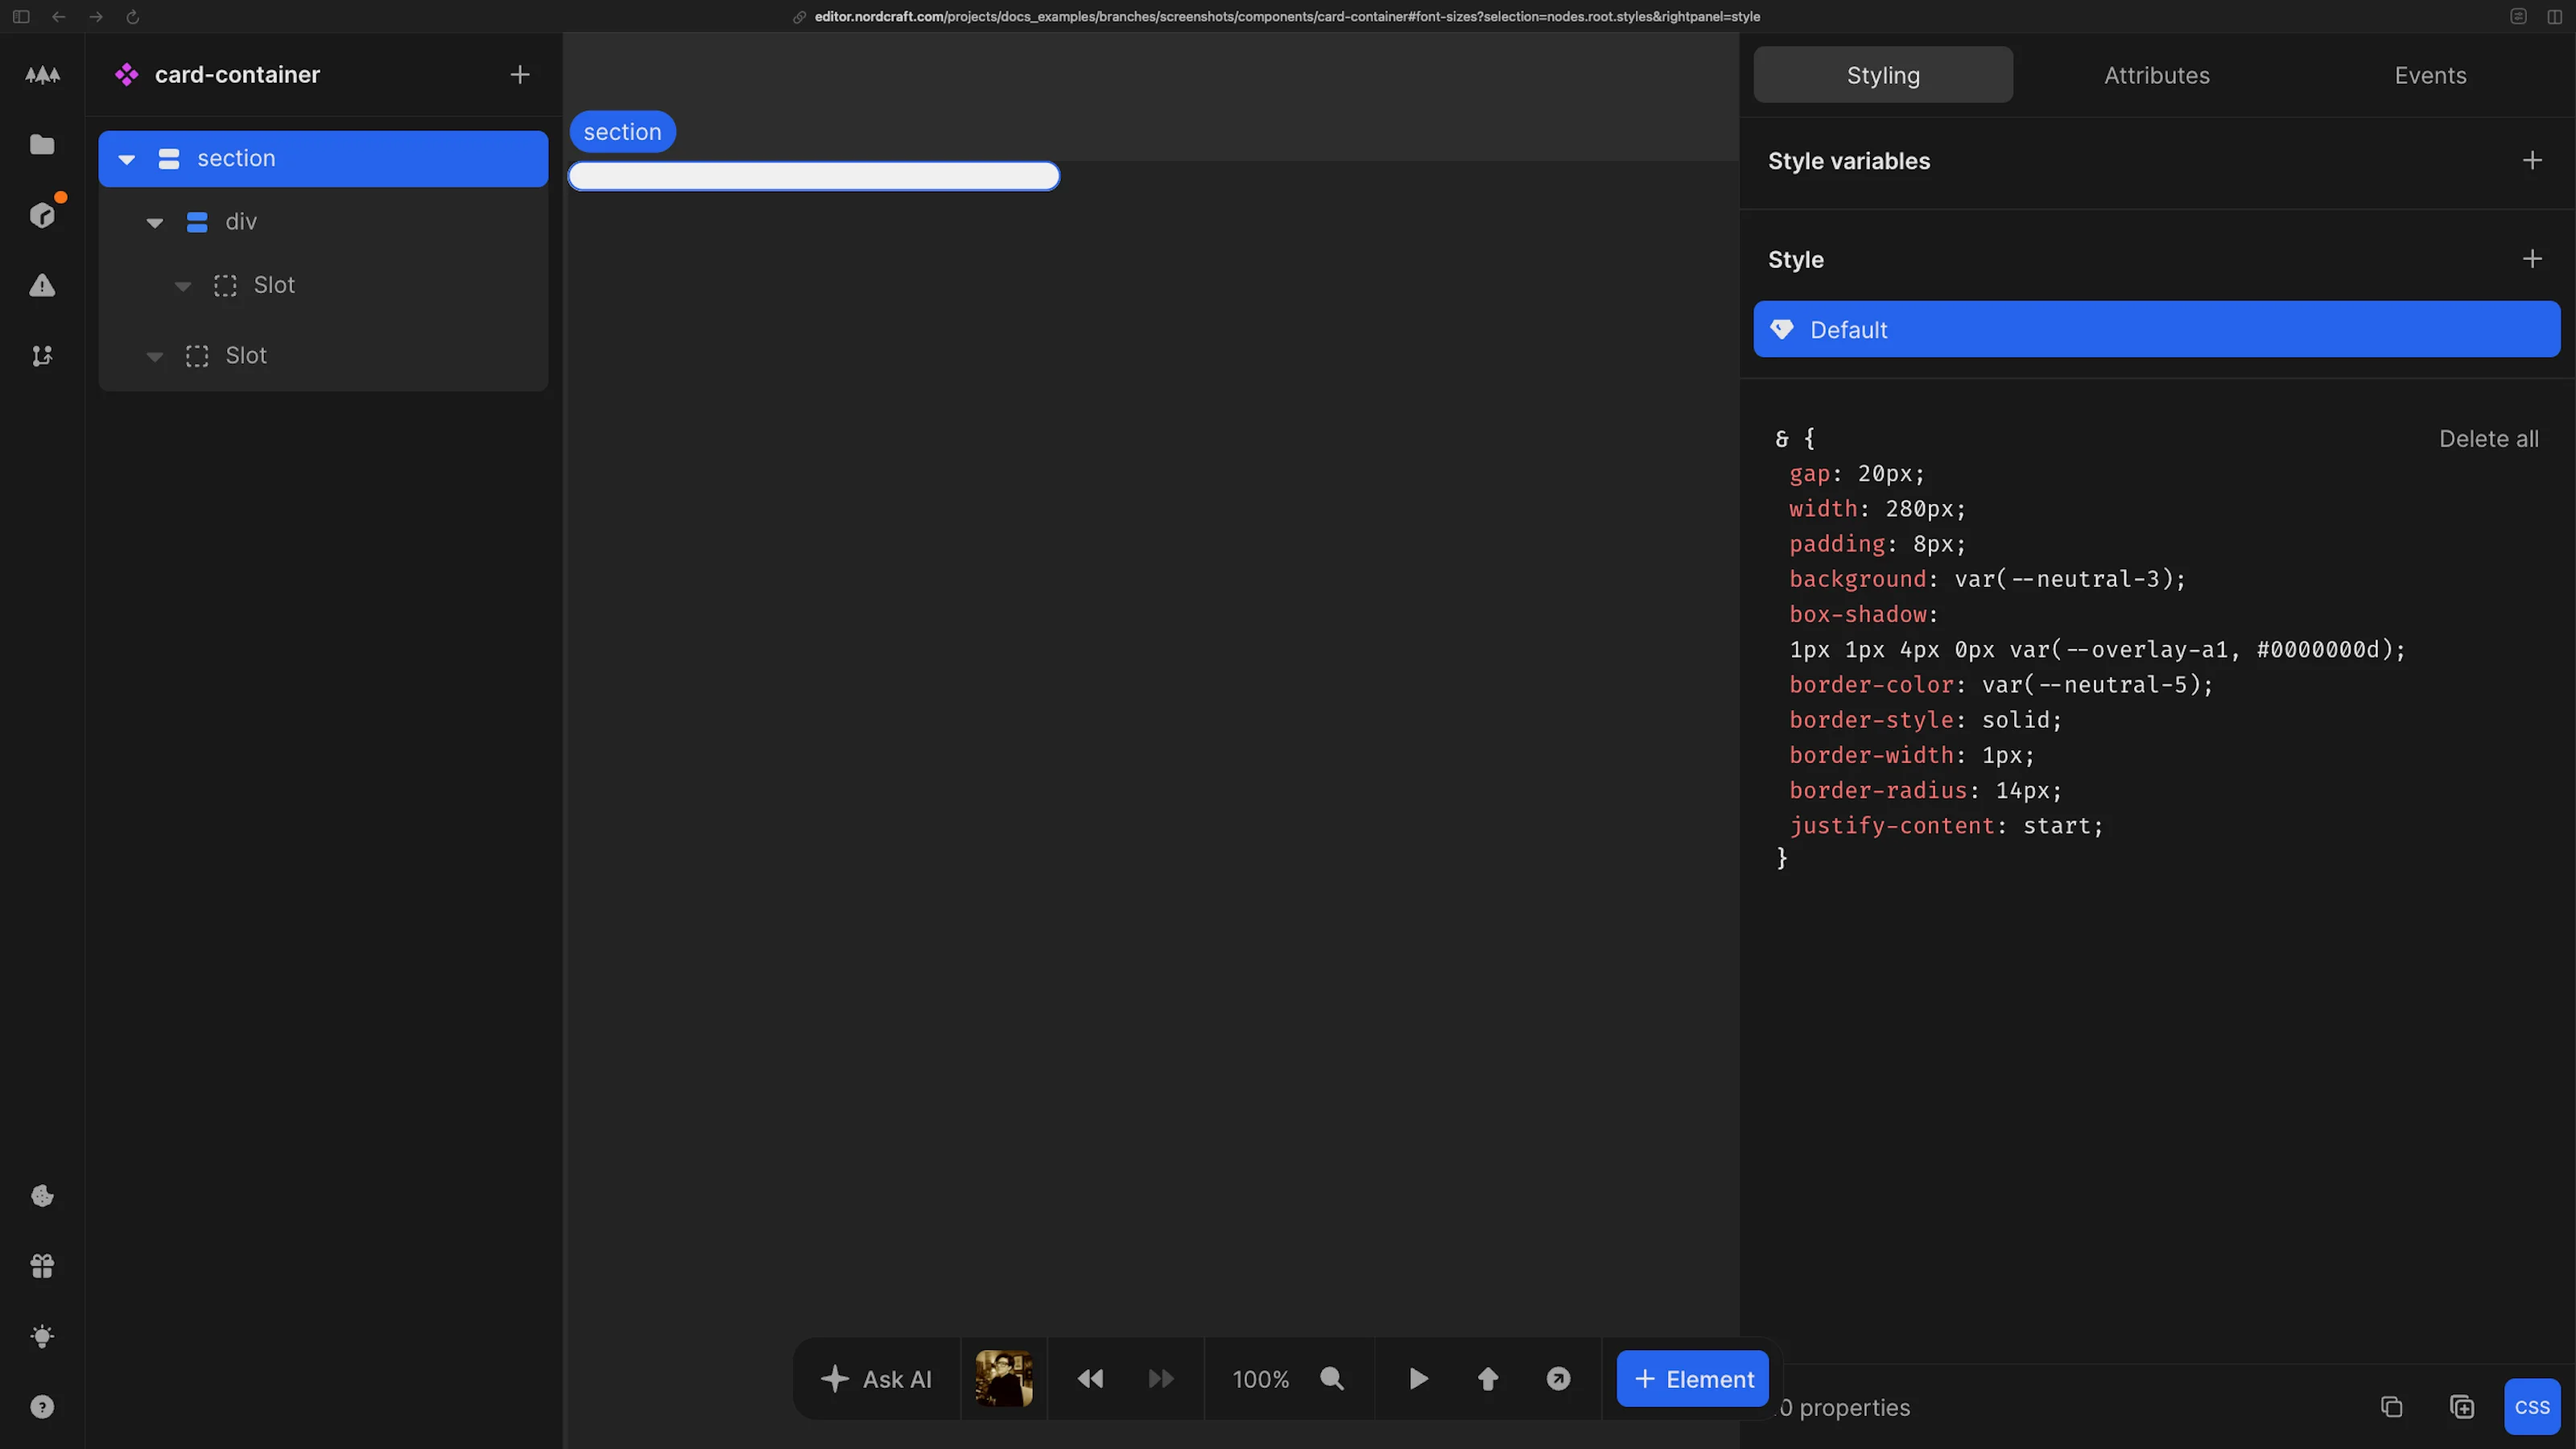
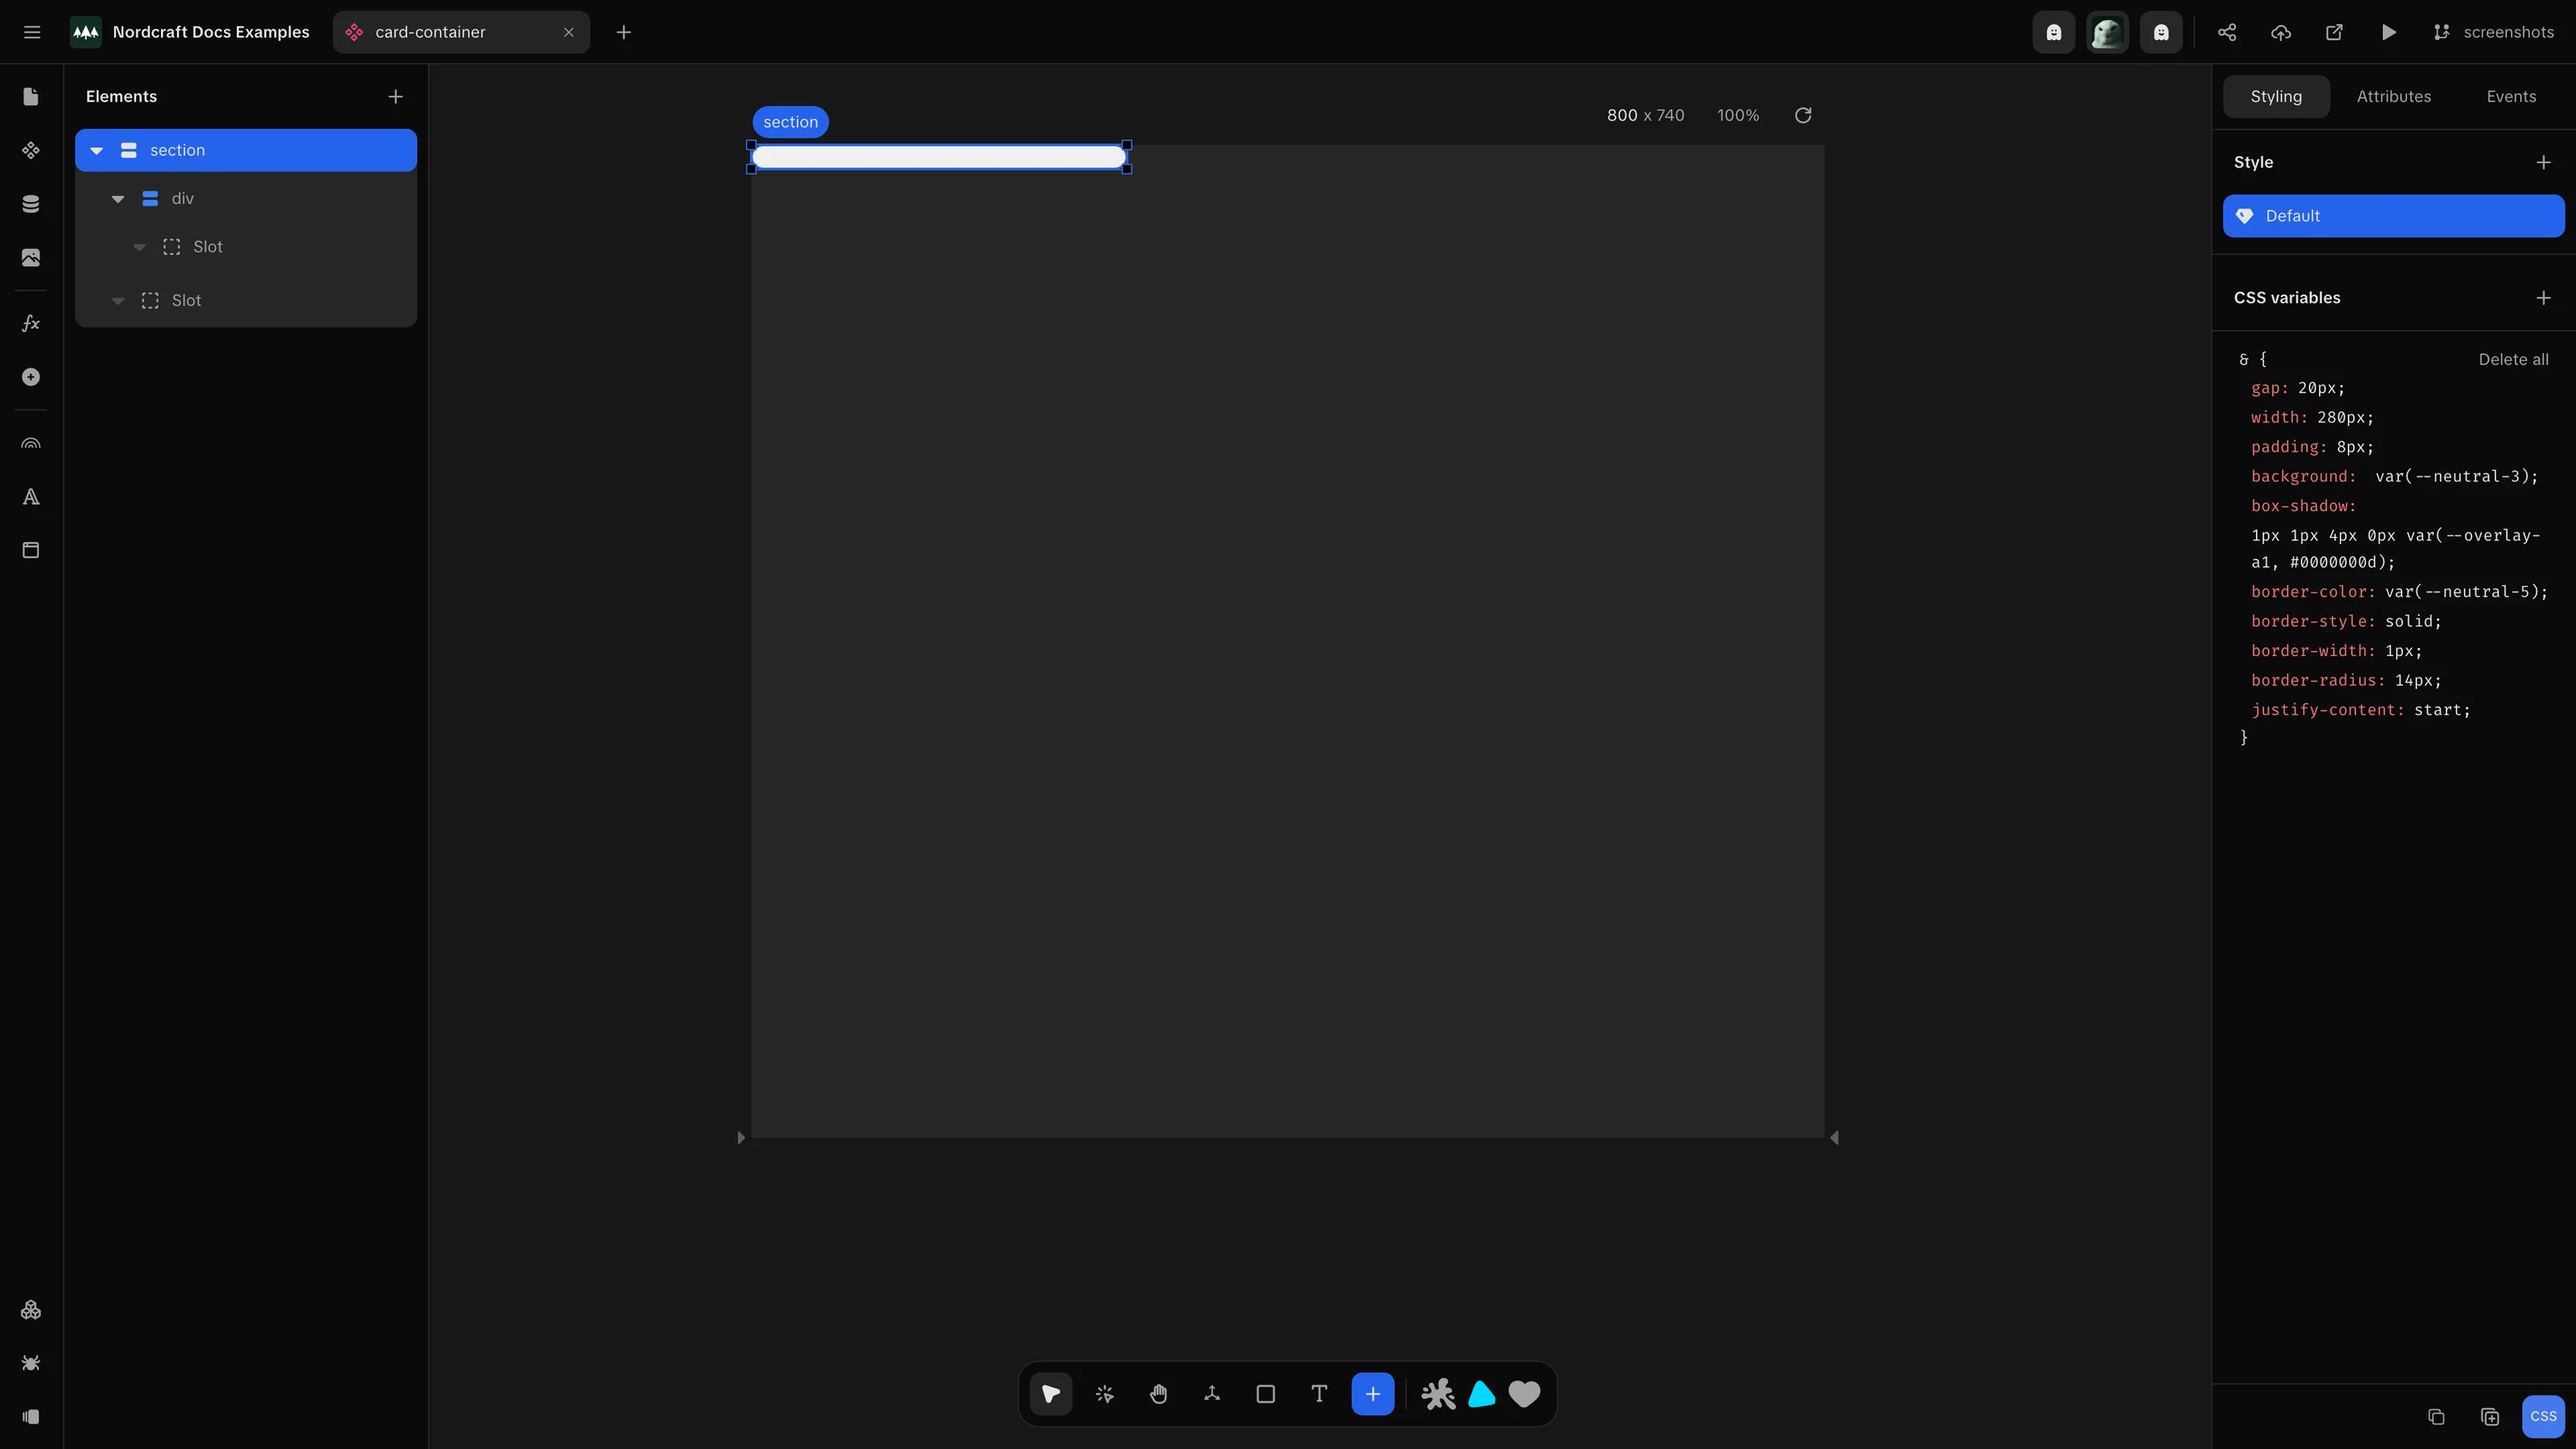
css editor

diff --git a/docs/styling/styles-and-layout/css-editor.screenshot.ts b/docs/styling/styles-and-layout/css-editor.screenshot.ts
@@ -1,0 +1,12 @@
+import { defineScreenshot } from '@/scripts/capture-screenshots'
+import type { Page } from 'playwright'
+
+// Placeholder script for css-editor.webp
+export default defineScreenshot({
+  path: '/projects/docs_examples/branches/screenshots/components/card-container?mode=design&canvas-tool=select&canvas-width=800&selection=nodes.root&rightpanel=style',
+  setup: async (page: Page) => {
+    await page.waitForTimeout(500)
+    await page.getByRole('button', { name: 'CSS', exact: true }).click()
+    await page.waitForTimeout(100)
+  },
+})
